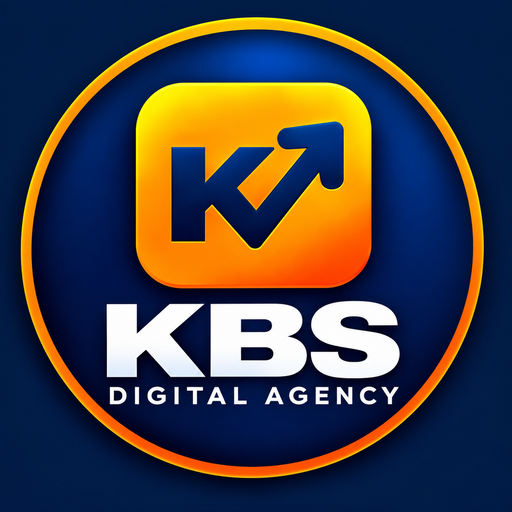
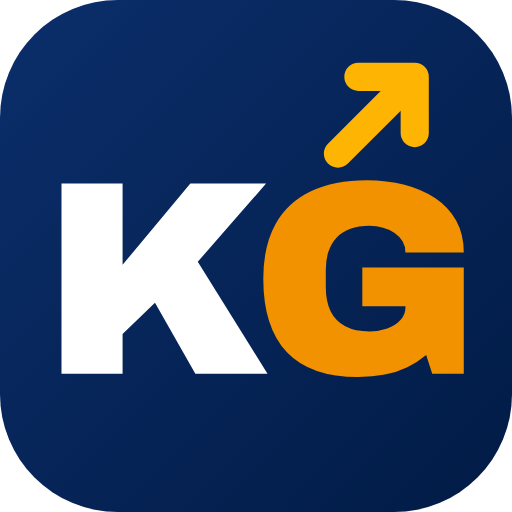
Icône KBS Gestion : monogramme KG dans l'app et icônes du téléphone (#12)
Claude-Session: https://claude.ai/code/session_01GQwqnG22YgSD8DsHAGCf3F

diff --git a/src/App.jsx b/src/App.jsx
@@ -168,6 +168,35 @@ function NotifDot({ count }) {
 
 const LOGO_B64 = BRAND_LOGO.split(",")[1]; // base64 seul (balises <img>)
 
+// Icône de l'application KBS Gestion (monogramme KG). Le logo complet
+// KBS Digital Agency (BRAND_LOGO) reste sur les reçus, devis et factures.
+function AppIcon({ size = 40, style }) {
+  return (
+    <svg viewBox="0 0 100 100" width={size} height={size} role="img" aria-label="KBS Gestion" style={{ flexShrink: 0, display: "block", ...style }}>
+      <defs>
+        <linearGradient id="kbsAppIconBg" x1="0" y1="0" x2="1" y2="1">
+          <stop offset="0" stopColor="#0B2E6B" /><stop offset="1" stopColor="#011B45" />
+        </linearGradient>
+      </defs>
+      <rect width="100" height="100" rx="23" fill="url(#kbsAppIconBg)" />
+      <rect x="1.5" y="1.5" width="97" height="97" rx="21.5" fill="none" stroke="rgba(255,255,255,.16)" strokeWidth="3" />
+      <text x="49" y="73" textAnchor="middle" fontFamily="Archivo, 'Arial Black', sans-serif" fontWeight="900" fontSize="54" letterSpacing="-4">
+        <tspan fill="#FFFFFF">K</tspan><tspan fill="#F39200">G</tspan>
+      </text>
+      <line x1="66" y1="30" x2="80" y2="16" stroke="#FDB402" strokeWidth="5.5" strokeLinecap="round" />
+      <polyline points="70,15 81,15 81,26" fill="none" stroke="#FDB402" strokeWidth="5.5" strokeLinecap="round" strokeLinejoin="round" />
+    </svg>
+  );
+}
+
+function AppWordmark({ size = 18 }) {
+  return (
+    <span style={{ fontFamily: "Archivo, sans-serif", fontWeight: 900, fontSize: size, letterSpacing: "-0.02em", whiteSpace: "nowrap" }}>
+      KBS <span style={{ color: "#F39200", fontWeight: 700 }}>Gestion</span>
+    </span>
+  );
+}
+
 function autoCode(name) {
   const base = (name || "").toUpperCase().normalize("NFD").replace(/[\u0300-\u036f]/g, "").replace(/[^A-Z]/g, "").slice(0, 6) || "MEMBRE";
   return `${base}2026`;
@@ -1788,7 +1817,7 @@ export default function App() {
 
       {!loaded ? (
         <div style={{ minHeight: "100vh", display: "flex", flexDirection: "column", gap: 14, alignItems: "center", justifyContent: "center", color: C.muted, fontSize: 13, padding: 24, textAlign: "center" }}>
-          <img src={BRAND_LOGO} alt="KBS Digital Agency" style={{ width: 64, height: 64, borderRadius: "50%" }} />
+          <AppIcon size={64} />
           {loadError ? (<>
             <AlertTriangle size={26} color={C.rustLight} />
             <div style={{ color: C.text, maxWidth: 360 }}>{loadError}</div>
@@ -1802,9 +1831,9 @@ export default function App() {
         {/* MENU LATERAL (ordinateur) */}
         <aside className="kbs-side" style={{ width: 250, flexShrink: 0, background: C.surf, borderRight: `1px solid ${C.border}`, padding: "22px 14px", flexDirection: "column", gap: 3, position: "sticky", top: 0, height: "100vh", boxSizing: "border-box", overflowY: "auto" }}>
           <div style={{ display: "flex", alignItems: "center", gap: 12, padding: "0 6px 14px" }}>
-            <img src={BRAND_LOGO} alt="KBS Digital Agency" style={{ width: 42, height: 42, borderRadius: "50%" }} />
+            <AppIcon size={42} />
             <div>
-              <div style={{ fontFamily: "Archivo, sans-serif", fontWeight: 900, fontSize: 18 }}>KBS Gestion</div>
+              <div><AppWordmark size={18} /></div>
               <div style={{ color: C.muted, fontSize: 11.5 }}>KBS Digital Agency</div>
             </div>
           </div>
@@ -1834,7 +1863,7 @@ export default function App() {
                 {tab !== "accueil" ? (
                   <button onClick={() => go(tab === "menu" ? "accueil" : (BOTTOM.some(b => b.id === tab) ? "accueil" : "menu"))} aria-label="Retour" className="kbs-mobile-only" style={{ width: 40, height: 40, borderRadius: 13, background: C.card, border: "none", color: C.text, display: "grid", placeItems: "center", cursor: "pointer", flexShrink: 0 }}><ChevronLeft size={20} /></button>
                 ) : (
-                  <img src={BRAND_LOGO} alt="KBS Digital Agency" className="kbs-mobile-only" style={{ width: 40, height: 40, borderRadius: "50%" }} />
+                  <span className="kbs-mobile-only"><AppIcon size={40} /></span>
                 )}
                 <div style={{ minWidth: 0 }}>
                   {tab === "accueil" && <div style={{ color: C.muted, fontSize: 12 }}>Bonjour{me ? ` ${me.name}` : ""}</div>}
@@ -1955,9 +1984,9 @@ function LoginScreen({ onUnlock, codes, team }) {
       <div aria-hidden="true" style={{ position: "absolute", width: 460, height: 460, borderRadius: "50%", border: "1px solid rgba(243,146,0,.22)", right: -240, top: -210 }} />
       <div style={{ width: "100%", maxWidth: 400, position: "relative" }}>
         <div style={{ display: "flex", alignItems: "center", gap: 14 }}>
-          <img src={BRAND_LOGO} alt="KBS Digital Agency" style={{ width: 64, height: 64, borderRadius: "50%", boxShadow: "0 10px 30px rgba(243,146,0,.25)" }} />
+          <AppIcon size={64} style={{ borderRadius: 15, boxShadow: "0 10px 30px rgba(243,146,0,.25)" }} />
           <div>
-            <div style={{ fontFamily: "Archivo, sans-serif", fontWeight: 900, fontSize: 26, letterSpacing: "-0.02em" }}>KBS Gestion</div>
+            <div><AppWordmark size={26} /></div>
             <div style={{ color: C.muted, fontSize: 12.5, marginTop: 3 }}>Ventes, stock, clients et équipe de l'agence</div>
           </div>
         </div>

diff --git a/docs/ETAT.md b/docs/ETAT.md
@@ -168,3 +168,11 @@ Branche `ccr-5b04f8c0-vt8y8v` (pas encore fusionnée dans `main`).
 - Base de données partagée : Supabase (`kbs_storage`, clé/valeur), même
   projet pour la prod et le test SaaS (isolation actuelle = uniquement les
   clés préfixées `org:*`, pas de RLS).
+
+## 2026-10-13 — Icône de l'application (monogramme KG)
+
+- Choix du gérant : proposition C, monogramme « KG » (K blanc, G orange, flèche de croissance) sur carré bleu nuit.
+- `AppIcon` et `AppWordmark` dans `src/App.jsx` : écran de chargement, connexion, menu latéral et en-tête mobile.
+- Icônes PNG régénérées dans `public/` (icon-192, icon-512, maskable, apple-touch-icon, favicon-32).
+- Le logo complet KBS Digital Agency (`BRAND_LOGO`) reste sur les reçus, devis, factures et le ticket de caisse.
+- Pour voir la nouvelle icône sur un téléphone : supprimer le raccourci et réinstaller l'app depuis le navigateur.
